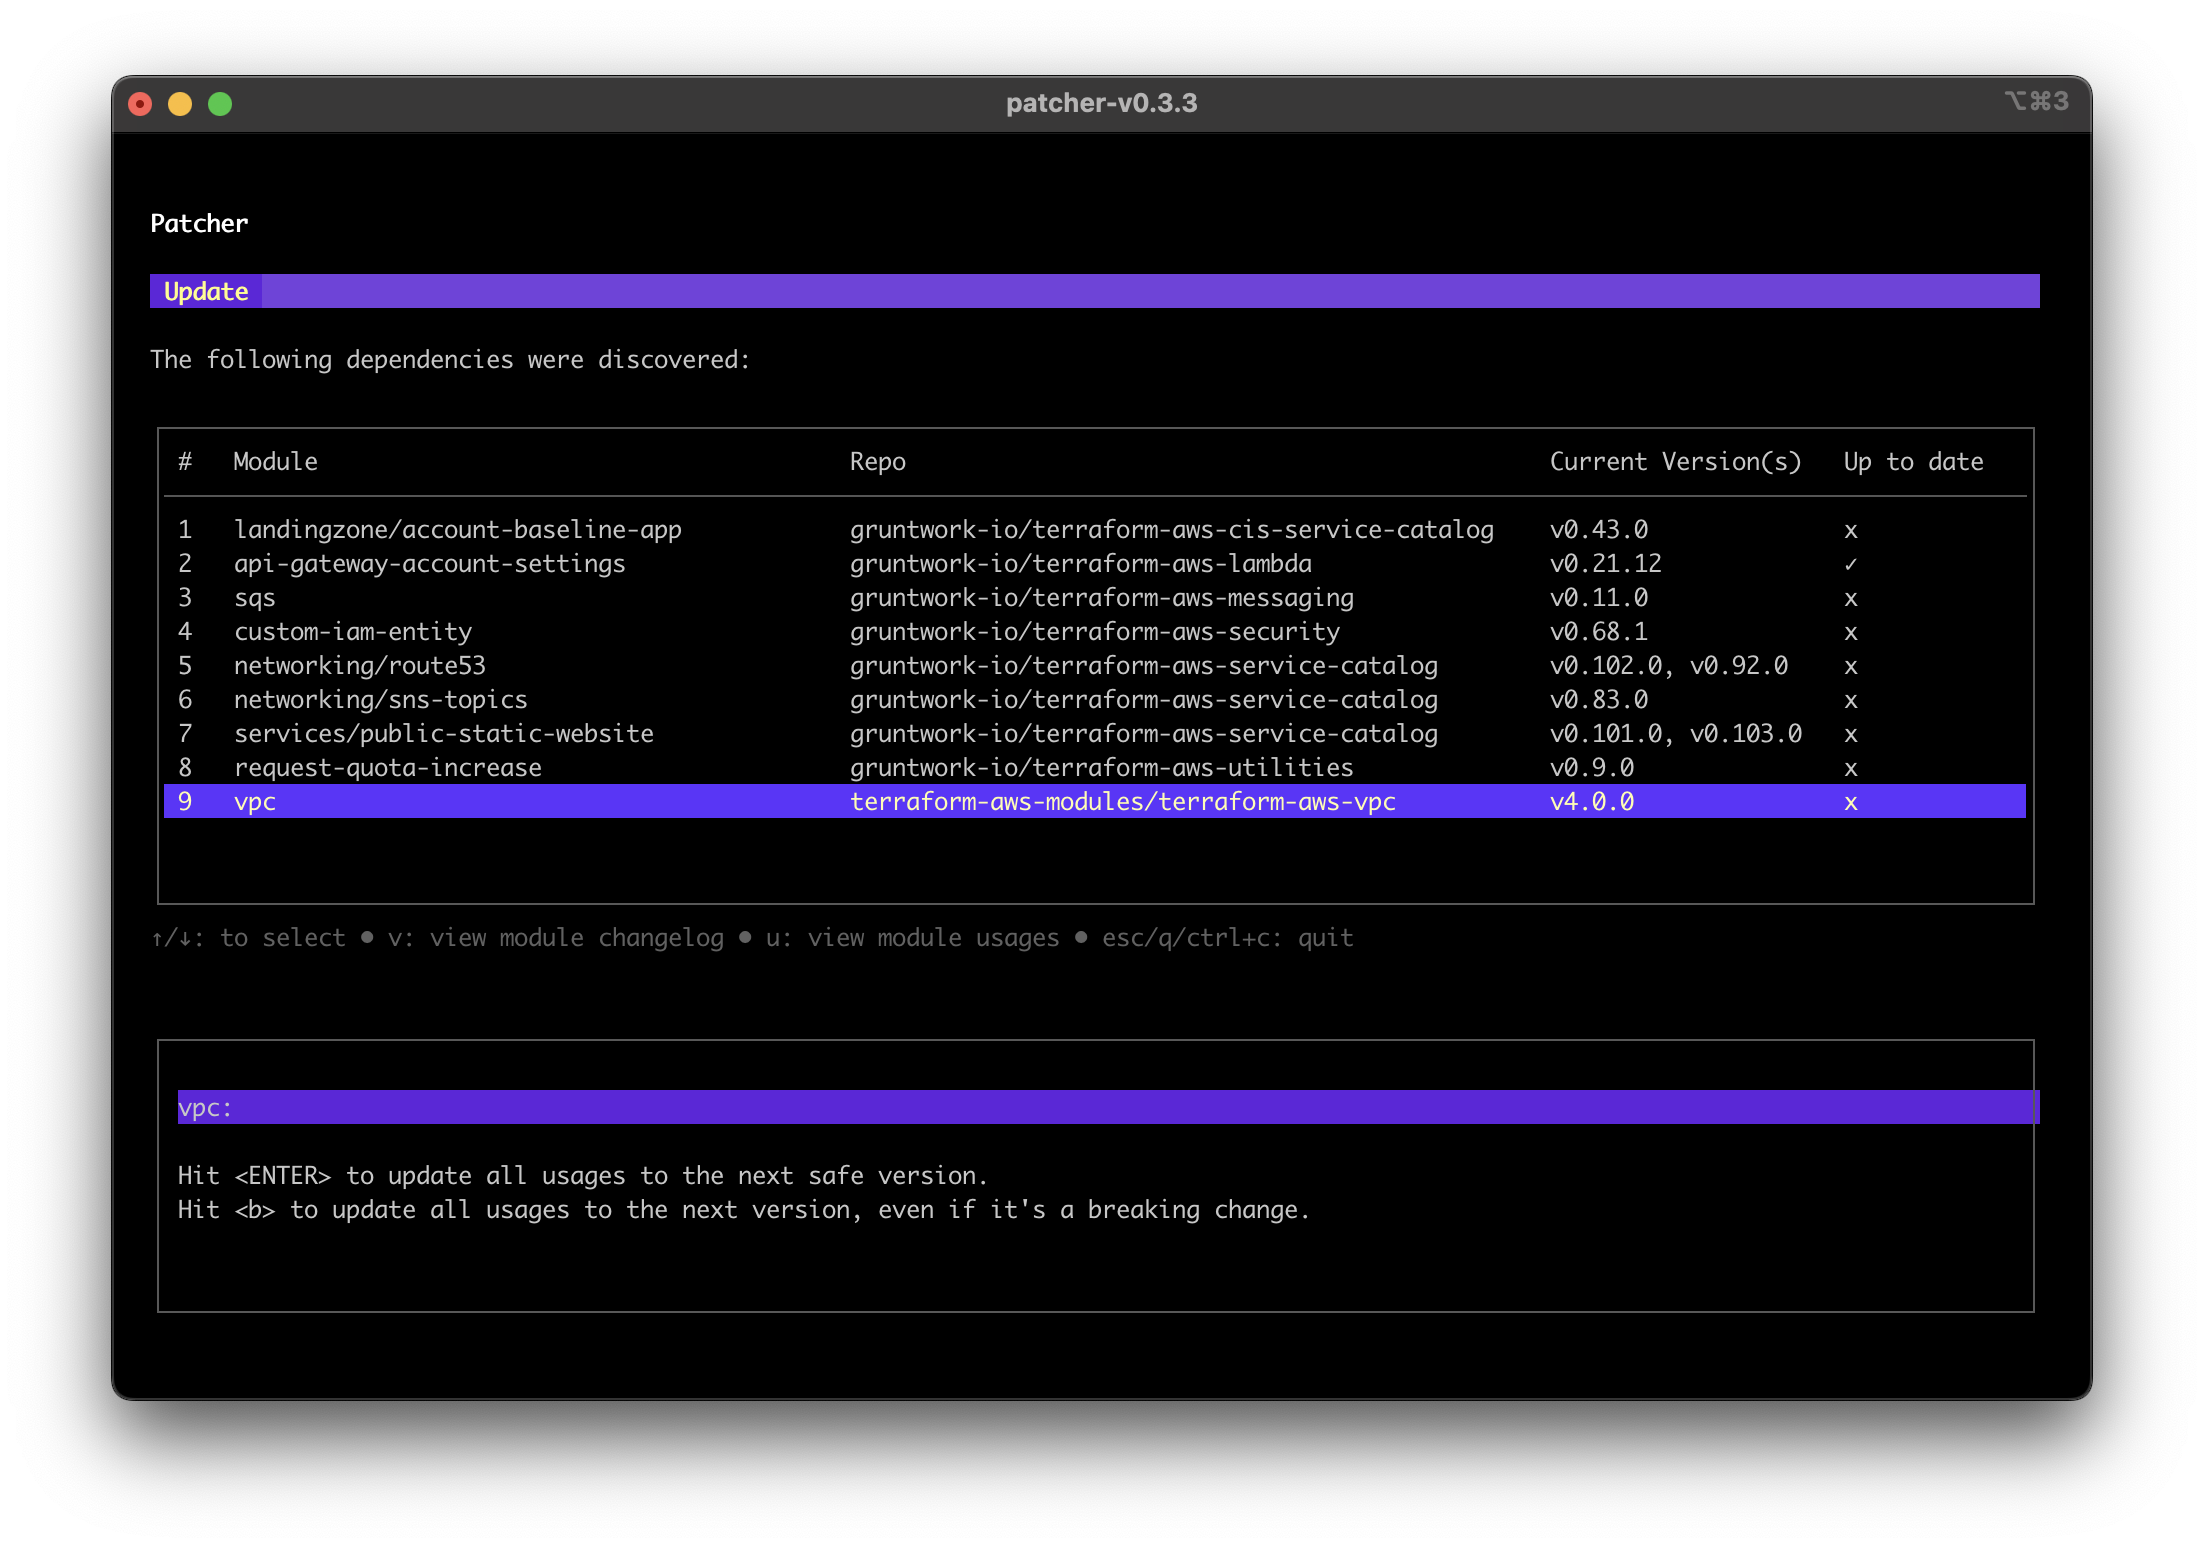
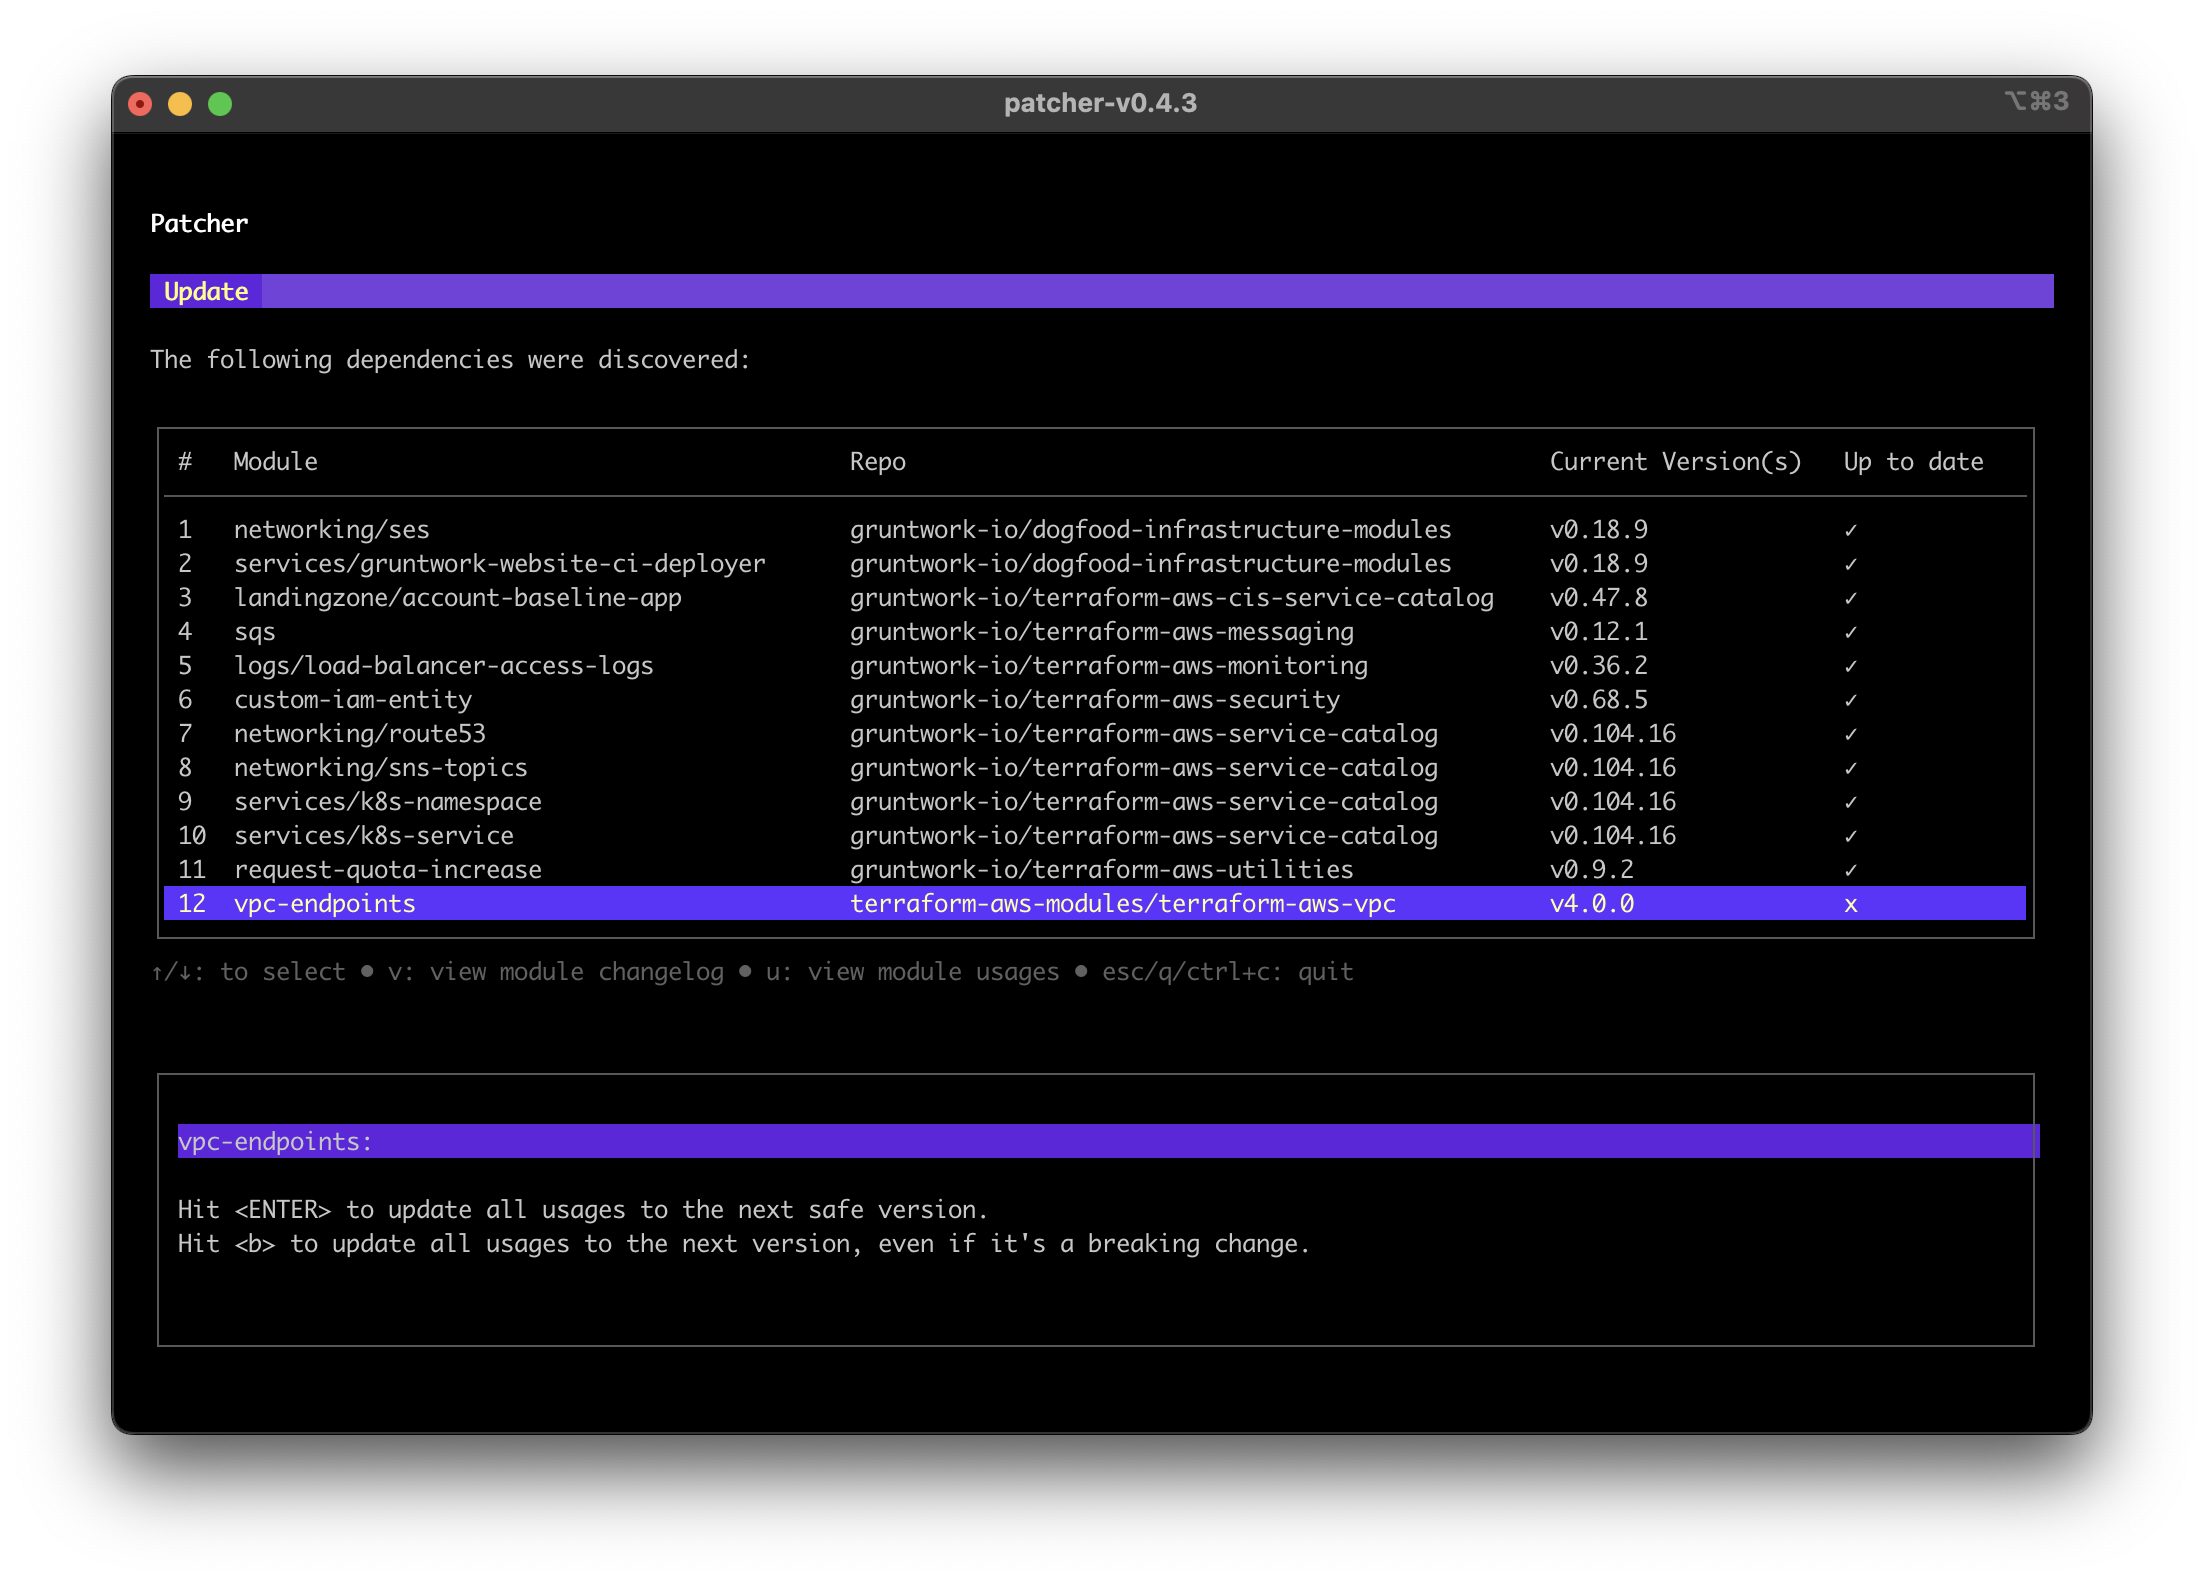
Patcher first class support for third party modules (#1036)
* Updated third party module screenshots
* Updated third party module support

diff --git a/docs/patcher/running-patcher/update.md b/docs/patcher/running-patcher/update.md
@@ -101,27 +101,50 @@ patcher update --non-interactive --skip-container-runtime --update-strategy next
 
 ## Support for Third Party Modules
 
-Beginning with version `0.3.3`, Patcher provides limited support for updating third party modules, including your own modules. The updates to third party module are limited to bumping the semver patch version.
+Patcher provides first class support for third party modules in both interactive mode and non-interactive mode, this includes your own modules.
 
-Third party modules are supported in both interactive mode and non-interactive mode.
+Starting in `0.4.3`, Patcher provides first class support for updating third party modules. The updates to third party modules are based on the semver version.
 
-For example, the [terraform-aws-modules/terraform-aws-vpc](https://github.com/terraform-aws-modules/terraform-aws-vpc) module has two recent changes: `4.0.2` and `5.0.0`.
+For example, the [terraform-aws-modules/terraform-aws-vpc](https://github.com/terraform-aws-modules/terraform-aws-vpc) module has three recent change: `5.0.0`, `5.1.0` and `5.1.1`.
 
-And in `infrastructure-live/prod` there is a dependency on `terraform-aws-vpc/vpc`:
-- `prod/us-east-1/prod/vpc/terragrunt.hcl` currently uses `4.0.0`
+And in `infrastructure-live/dev` there is a dependency on `terraform-aws-vpc/vpc`:
+- `dev/us-east-1/prod/dev/terragrunt.hcl` currently uses `4.0.0`
 
-Patcher can update this dependency to `4.0.2` but because this only requires bumping the semver patch version.
+![Screenshot of third party module dependency with updates available](/img/guides/stay-up-to-date/patcher/patcher-update-overview-3p-update-available.png)
+
+Patcher can update this dependency to the latest version but because there is a breaking version in between, Patcher updates to `5.0.0` and writes a `README-TO-COMPLETE-UPDATE.md` file into the folder containing the dependendency.
 
 ![Screenshot of third party module dependency usages with updates available](/img/guides/stay-up-to-date/patcher/patcher-update-usages-3p-update-available.png)
 
-Patcher cannot update from `4.0.x` to `5.0.0` and will instead show a `?` in the "Up to date" column and the message "Patcher can not determine an update plan for this dependency".
+The `README-TO-COMPLETE-UPDATE.md` file contains the [release note](https://github.com/terraform-aws-modules/terraform-aws-vpc/releases/tag/v5.0.0).
 
-![Screenshot of third party module dependency that cannot be updated](/img/guides/stay-up-to-date/patcher/patcher-update-overview-3p-no-plan.png)
+```md
+# vpc-endpoints v4.0.0 -> v5.0.0 (2023.08.15 13:39:56)
+
+Updated dependency vpc-endpoints in dev/us-east-1/dev/vpc/terragrunt.hcl to version v5.0.0, which contains breaking changes. You MUST follow the instructions in the release notes to complete this update safely: https://github.com/terraform-aws-modules/terraform-aws-vpc/releases/tag/v5.0.0
+
+Here are the release notes for version v5.0.0:
+
+## [5.0.0](https://github.com/terraform-aws-modules/terraform-aws-vpc/compare/v4.0.2...v5.0.0) (2023-05-30)
+
+
+### ⚠ BREAKING CHANGES
+
+* Bump Terraform AWS Provider version to 5.0 (#941)
+
+### Features
+
+* Bump Terraform AWS Provider version to 5.0 ([#941](https://github.com/terraform-aws-modules/terraform-aws-vpc/issues/941)) ([2517eb9](https://github.com/terraform-aws-modules/terraform-aws-vpc/commit/2517eb98a39500897feecd27178994055ee2eb5e))
+```
+
+Running Patcher again will complete the update to `5.1.1`, the `README-TO-COMPLETE-UPDATE.md` file should be read, actioned and deleted first.
+
+![Screenshot of third party module dependency full up to date](/img/guides/stay-up-to-date/patcher/patcher-report-overview-3p-futd.png)
 
 
 <!-- ##DOCS-SOURCER-START
 {
   "sourcePlugin": "local-copier",
-  "hash": "bdb6c8796a65e330af0b443208ebb1de"
+  "hash": "5c301767d0882df416aeeee2442f7776"
 }
 ##DOCS-SOURCER-END -->

diff --git a/_docs-sources/patcher/running-patcher/update.md b/_docs-sources/patcher/running-patcher/update.md
@@ -101,19 +101,42 @@ patcher update --non-interactive --skip-container-runtime --update-strategy next
 
 ## Support for Third Party Modules
 
-Beginning with version `0.3.3`, Patcher provides limited support for updating third party modules, including your own modules. The updates to third party module are limited to bumping the semver patch version.
+Patcher provides first class support for third party modules in both interactive mode and non-interactive mode, this includes your own modules.
 
-Third party modules are supported in both interactive mode and non-interactive mode.
+Starting in `0.4.3`, Patcher provides first class support for updating third party modules. The updates to third party modules are based on the semver version.
 
-For example, the [terraform-aws-modules/terraform-aws-vpc](https://github.com/terraform-aws-modules/terraform-aws-vpc) module has two recent changes: `4.0.2` and `5.0.0`.
+For example, the [terraform-aws-modules/terraform-aws-vpc](https://github.com/terraform-aws-modules/terraform-aws-vpc) module has three recent change: `5.0.0`, `5.1.0` and `5.1.1`.
 
-And in `infrastructure-live/prod` there is a dependency on `terraform-aws-vpc/vpc`:
-- `prod/us-east-1/prod/vpc/terragrunt.hcl` currently uses `4.0.0`
+And in `infrastructure-live/dev` there is a dependency on `terraform-aws-vpc/vpc`:
+- `dev/us-east-1/prod/dev/terragrunt.hcl` currently uses `4.0.0`
 
-Patcher can update this dependency to `4.0.2` but because this only requires bumping the semver patch version.
+![Screenshot of third party module dependency with updates available](/img/guides/stay-up-to-date/patcher/patcher-update-overview-3p-update-available.png)
+
+Patcher can update this dependency to the latest version but because there is a breaking version in between, Patcher updates to `5.0.0` and writes a `README-TO-COMPLETE-UPDATE.md` file into the folder containing the dependendency.
 
 ![Screenshot of third party module dependency usages with updates available](/img/guides/stay-up-to-date/patcher/patcher-update-usages-3p-update-available.png)
 
-Patcher cannot update from `4.0.x` to `5.0.0` and will instead show a `?` in the "Up to date" column and the message "Patcher can not determine an update plan for this dependency".
+The `README-TO-COMPLETE-UPDATE.md` file contains the [release note](https://github.com/terraform-aws-modules/terraform-aws-vpc/releases/tag/v5.0.0).
 
-![Screenshot of third party module dependency that cannot be updated](/img/guides/stay-up-to-date/patcher/patcher-update-overview-3p-no-plan.png)
+```md
+# vpc-endpoints v4.0.0 -> v5.0.0 (2023.08.15 13:39:56)
+
+Updated dependency vpc-endpoints in dev/us-east-1/dev/vpc/terragrunt.hcl to version v5.0.0, which contains breaking changes. You MUST follow the instructions in the release notes to complete this update safely: https://github.com/terraform-aws-modules/terraform-aws-vpc/releases/tag/v5.0.0
+
+Here are the release notes for version v5.0.0:
+
+## [5.0.0](https://github.com/terraform-aws-modules/terraform-aws-vpc/compare/v4.0.2...v5.0.0) (2023-05-30)
+
+
+### ⚠ BREAKING CHANGES
+
+* Bump Terraform AWS Provider version to 5.0 (#941)
+
+### Features
+
+* Bump Terraform AWS Provider version to 5.0 ([#941](https://github.com/terraform-aws-modules/terraform-aws-vpc/issues/941)) ([2517eb9](https://github.com/terraform-aws-modules/terraform-aws-vpc/commit/2517eb98a39500897feecd27178994055ee2eb5e))
+```
+
+Running Patcher again will complete the update to `5.1.1`, the `README-TO-COMPLETE-UPDATE.md` file should be read, actioned and deleted first.
+
+![Screenshot of third party module dependency full up to date](/img/guides/stay-up-to-date/patcher/patcher-report-overview-3p-futd.png)
